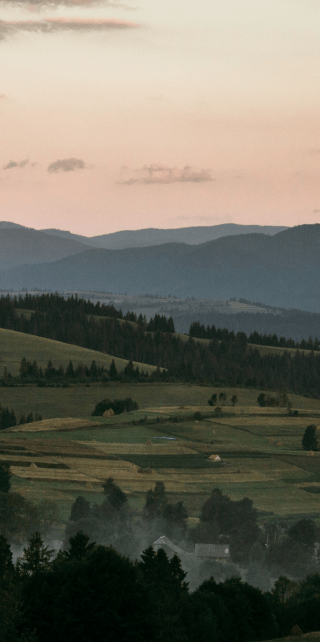
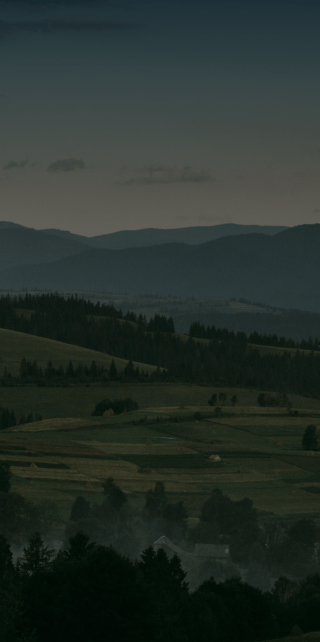
Add Hero background

diff --git a/src/app/globals.css b/src/app/globals.css
@@ -8,21 +8,6 @@
     --error-color: #ff5757;
     --default-bgd: #0a1813;
 
-    --section-overlay-top: linear-gradient(
-      180deg,
-      #001826 0%,
-      rgba(0, 37, 49, 0) 100%
-    );
-    --section-overlay-bottom: linear-gradient(
-      180deg,
-      #002426 0%,
-      rgba(0, 37, 49, 0) 100%
-    );
-
-    --section-bgd-50: rgba(2, 15, 8, 0.5);
-    --section-bgd-75: rgba(2, 15, 8, 0.75);
-    --section-bgd-85: rgba(2, 15, 8, 0.85);
-
     --button-bgd: rgba(255, 255, 255, 0.1);
     --button-hover-bgd: rgba(255, 255, 255, 0.2);
 
@@ -83,7 +68,7 @@ a {
 }
 
 .container {
-  width: 100%;
+  max-width: 100%;
   padding-left: 20px;
   padding-right: 20px;
   margin-left: auto;
@@ -108,7 +93,84 @@ a {
 @media screen and (min-width: 1280px) {
   .container {
     max-width: 1280px;
-    padding-left: 104px;
-    padding-right: 104px;
+    padding-left: 80px;
+    padding-right: 80px;
   }
 }
+
+.btn::after {
+  content: url('../../public/icons/frame-right-mobile.svg');
+  position: absolute;
+  top: 0;
+  right: 0;
+}
+
+.btn::before {
+  content: url('../../public/icons/frame-left-mobile.svg');
+  position: absolute;
+  top: 0;
+  left: 0;
+}
+
+@media screen and (min-width: 768px) {
+  .btn::after {
+  content: url('../../public/icons/frame-right-tablet.svg');
+  top: 1px;
+  right: 0;
+}
+
+.btn::before {
+  content: url('../../public/icons/frame-left-tablet.svg');
+  top: 1px;
+  left: 0;
+}
+}
+
+@media screen and (min-width: 1280px) {
+  .btn::after {
+  content: url('../../public/icons/frame-right-desktop.svg');
+  top: -1px;
+  right: 0;
+}
+
+.btn::before {
+  content: url('../../public/icons/frame-left-desktop.svg');
+  top: -1px;
+  left: 0;
+}
+}
+
+.hero {
+  max-width: 100%;
+  margin-left: auto;
+  margin-right: auto;
+
+  background-image: image-set(
+    url("/images/hero/hero-mobile-1x.png") 1x,
+    url("/images/hero/hero-mobile-2x.png") 2x
+  );
+  background-repeat: no-repeat;
+  background-size: cover;
+  background-position: center;
+
+  @media screen and (min-width: 480px) {
+    max-width: 480px;
+    background-image: image-set(
+    url("/images/hero/hero-tablet-1x.png") 1x,
+    url("/images/hero/hero-tablet-2x.png") 2x
+    );
+  }
+
+  @media screen and (min-width: 768px) {
+    max-width: 768px;
+    background-image: image-set(
+    url("/images/hero/hero-desktop-1x.png") 1x,
+    url("/images/hero/hero-desktop-2x.png") 2x
+    );
+  }
+
+  @media screen and (min-width: 1280px) {
+    max-width: 1440px;
+  }
+}
+

diff --git a/src/components/Hero/HeroContent.tsx b/src/components/Hero/HeroContent.tsx
@@ -8,22 +8,32 @@ import data from '@/data/hero.json';
 
 import HeroTitle from './HeroTitle'
 import Slogan from './Slogan'
-import HeroButton from './HeroButton';
+import HeroButton from '../ui-kit/HeroButton';
 
 const HeroContent = () => {
   
 
   return (
-    <div className='flex flex-col gap-6'>
-      <div className='md:hidden text-right '>
+    <div className='z-10 flex flex-col md:flex-row gap-6 md:gap-0 md:justify-between pb-[56px] md:pb-[64px] lg:py-[24px]'>
+
+      <div className='md:hidden text-right'>
         <Slogan />
       </div>
-      <HeroTitle />
-      <p className='text-[10px] md:text-sm lg:text-base leading-[1.6] md:leading-[1.14] lg:leading-[1.5] md:tracking-1.26 lg:tracking-1.44 w-[157px] md:w-[263px] lg:w-full'>{data.locations}</p>
-      <p className='text-justify leading-[1.42] md:text-base lg:text-lg md:leading-[1.25] lg:leading-[1.33] w-full md:w-[230px] lg:w-[294px]'>{data.description}</p>
-      <HeroButton text='JOIN NOW'>
-        <Link to="contacts" smooth={true} duration={500}/>
-      </HeroButton>
+
+      <div className='flex flex-col gap-6 md:gap-0 md:justify-between'>
+        <HeroTitle />
+        <p className='text-[10px] md:text-sm lg:text-base leading-[1.6] md:leading-[1.14] lg:leading-[1.5] md:tracking-1.26 lg:tracking-1.44 w-[157px] md:w-[263px] lg:w-full'>{data.locations}</p>
+      </div>
+
+      <div className='flex flex-col gap-6 md:gap-0 items-center md:w-[230px] lg:w-[294px]'>
+        <div className='hidden md:flex flex-col w-full'>
+          <Slogan />
+        </div>
+        <p className='text-justify leading-[1.42] md:text-base lg:text-lg md:leading-[1.25] lg:leading-[1.33] w-full md:w-[230px] lg:w-[294px] md:mt-[56px] md:mb-[28px] lg:mt-[181px]'>{data.description}</p>
+        <HeroButton text='JOIN NOW'>
+          <Link to="contacts" smooth={true} duration={500}/>
+        </HeroButton>
+      </div>
     </div>
   )
 }

diff --git a/src/components/ui-kit/HeroButton.tsx b/src/components/ui-kit/HeroButton.tsx
@@ -9,7 +9,7 @@ const HeroButton = ({ text, children}: HeroButtonProps) => {
   return (
     <button
       type="button"
-      className="uppercase focus:outline-1 focus:outline-white bg-btnBgdLight md:bg-btnBgd h-[53px] lg:h-[71px] text-lg lg:text-[32px] font-bold leading-[2.66] md:leading-normal relative hover:bg-btnBgdHover focus:bg-btnBgdHover"
+      className="btn w-full uppercase focus:outline-1 focus:outline-white bg-btnBgdLight md:bg-btnBgd h-[53px] lg:h-[71px] text-lg lg:text-[32px] font-bold leading-[2.66] md:leading-normal relative hover:bg-btnBgdHover focus:bg-btnBgdHover transition-all duration-250"
     >{children}
       {text}
     </button>

diff --git a/tailwind.config.ts b/tailwind.config.ts
@@ -11,9 +11,6 @@ const config: Config = {
       error: '#ff5757',
     },
     backgroundColor: {
-      sectionBgd50: 'rgba(2, 15, 8, 0.5)',
-      sectionBgd75: 'rgba(2, 15, 8, 0.75)',
-      sectionBgd85: 'rgba(2, 15, 8, 0.85)',
       btnBgdLight: 'rgba(255, 255, 255, 0.1)',
       btnBgd: 'rgba(255, 255, 255, 0.05)',
       btnBgdHover: 'rgba(255, 255, 255, 0.2)',
@@ -47,7 +44,7 @@ const config: Config = {
       letterSpacing: {
         wide: '2.59px',
         normal: '1.4px',
-        '3.9': '-3.92px',
+        '3.92': '-3.92px',
         '1.26': '1.26px',
         '1.44': '1.44px',
         '1.6': ' -1.6px',

diff --git a/src/components/Hero/HeroTitle.tsx b/src/components/Hero/HeroTitle.tsx
@@ -5,7 +5,7 @@ const HeroTitle = () => {
   return (
     <div className="max-w-full sm:max-w-[426px] lg:max-w-[646px]">
       <h1
-        className="tracking-1.6 md:tracking-2.68 lg:tracking-3.92 flex flex-col text-[40px] font-thin uppercase leading-[1.4] md:text-[67px] md:leading-normal lg:text-[98px]"
+        className="flex flex-col font-thin uppercase text-[40px] md:text-[67px] lg:text-[98px] tracking-1.6 md:tracking-2.68 lg:tracking-3.92 leading-[1.4] "
       >
         <span className="font-medium">{data.title1}</span>
         {data.title2}

diff --git a/src/components/Hero/Slogan.tsx b/src/components/Hero/Slogan.tsx
@@ -5,7 +5,7 @@ import data from '@/data/hero.json';
 const Slogan = () => {
   return (
     <>
-      <p className='text-[37px] md:text-[67px] lg:text-[98px] tracking-1.665 md:tracking-8.71 lg:tracking-none font-thin uppercase leading-none'>
+      <p className='text-[37px] md:text-[67px] lg:text-[98px] tracking-1.665 md:tracking-8.71 lg:tracking-normal font-thin uppercase leading-none'>
         <span className='font-medium'>{data.slogan1}</span>
         {data.slogan2}
       </p>

diff --git a/src/components/Header/MenuButton.tsx b/src/components/Header/MenuButton.tsx
@@ -8,7 +8,7 @@ const MenuButton = ({ text, onClick }: MenuButtonProps) => {
     <button
       type="button"
       onClick={onClick}
-      className="font-normal uppercase tracking-normal text-white hover:underline focus:underline focus:outline-1 focus:outline-white"
+      className="font-normal uppercase tracking-normal text-white hover:underline focus:underline focus:outline-1 focus:outline-white transition-all duration-250"
     >
       {text}
     </button>

diff --git a/src/components/Header/Header.tsx b/src/components/Header/Header.tsx
@@ -20,7 +20,7 @@ const Header = () => {
   };
 
   return (
-    <header className="flex items-center justify-between pt-9 pb-9 md:pt-[25px] md:pb-[66px] lg:pt-6 lg:pb-12">
+    <header className="z-10 flex items-center justify-between pt-9 pb-9 md:pt-[25px] md:pb-[66px] lg:pt-6 lg:pb-12">
       <Logo />
       {isMobile ? (
         <MenuButton text="Menu" onClick={toggleMenuOpen}/>

diff --git a/src/sections/Hero.tsx b/src/sections/Hero.tsx
@@ -5,8 +5,10 @@ import HeroContent from "@/components/Hero/HeroContent";
 
 const Hero = () => {
   return (
-    <section className=''>
-      <div className='container'>
+    <section className='w-full h-full hero'>
+      <div className="section-overlay-top"></div>
+      <div className='container lg:pb-[80px]'>
+        
         <Header />
         <HeroContent/>
       </div>
